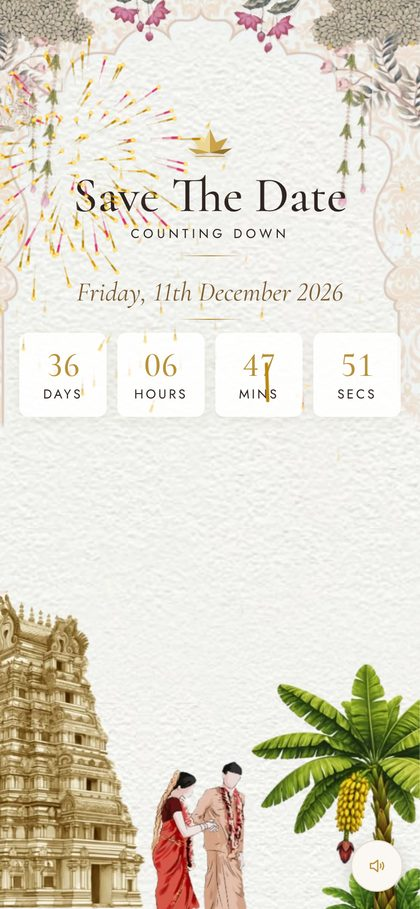
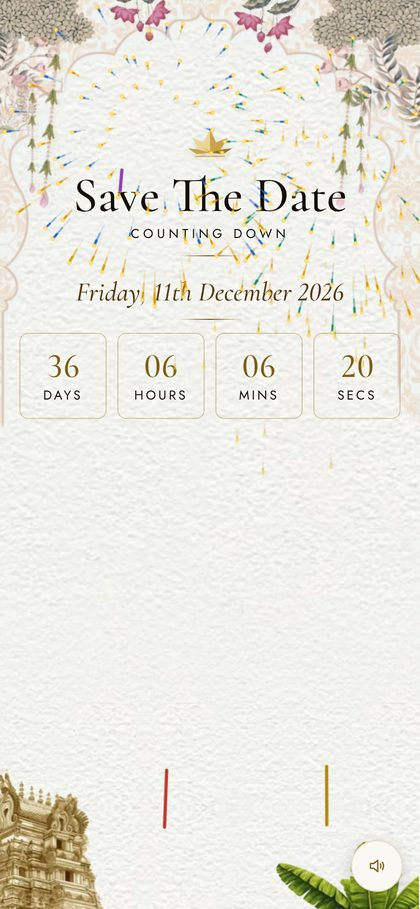
Add files via upload

diff --git a/index.html b/index.html
@@ -11,9 +11,11 @@
 <meta property="og:title" content="Dr. Yuvarajendra &amp; Dr. Madhura · Wedding Invitation">
 <meta property="og:description" content="Muhurtham · Friday, 11 December 2026 · Ebisu Palace, Bengaluru. Tap to open your invitation.">
 <meta property="og:url" content="https://yuvarajendra-reddy.github.io/wedding-invite/">
-<meta property="og:image" content="https://yuvarajendra-reddy.github.io/wedding-invite/bg/og-image.jpg">
+<meta property="og:image" content="https://yuvarajendra-reddy.github.io/wedding-invite/bg/og-preview-v2.jpg">
 <meta property="og:image:width" content="1200">
 <meta property="og:image:height" content="630">
+<meta property="og:image:type" content="image/jpeg">
+<meta property="og:image:secure_url" content="https://yuvarajendra-reddy.github.io/wedding-invite/bg/og-preview-v2.jpg">
 <meta property="og:image:alt" content="Illustrated portrait of Dr. Yuvarajendra and Dr. Madhura">
 <meta name="twitter:card" content="summary_large_image">
 <link rel="icon" href="bg/couple-logo.webp">
@@ -27,11 +29,11 @@
   --outer:#2a2622;
   --cream:#f4f2ec;
   --paper:#fdfcf9;
-  --ink:#2f2420;
-  --text:#3e332d;
-  --gold:#b8923a;
+  --ink:#140d09;
+  --text:#140d09;
+  --gold:#7f5d18;
   --gold-2:#d9bd76;
-  --brown:#7a5a32;
+  --brown:#553914;
   --door:#f6f0e8;
   --display:"Cormorant Garamond","Garamond","Times New Roman",serif;
   --serif:"Cormorant Garamond","Garamond","Times New Roman",serif;
@@ -63,10 +65,17 @@ p{margin:0}
 /* each section = one phone screen */
 .page{position:relative;height:100%;min-height:0;overflow:hidden;display:flex;flex-direction:column;justify-content:center;scroll-snap-align:start;scroll-snap-stop:always;
   /* keep content inside the arch and above the temple/banana band */
-  padding-block:max(56px,calc(var(--w) * .20)) max(72px,calc(var(--w) * .42))}
+  padding-block:max(44px,calc(var(--w) * .15)) max(72px,calc(var(--w) * .42))}
 #p-couple{padding-block:max(44px,calc(var(--w) * .12)) max(56px,calc(var(--w) * .22))}
 #p-couple .invite{margin-bottom:16px}
-#p-couple .person{padding:22px 18px 16px}
+#p-couple .person{padding:22px 4px 10px}
+#p-couple .invite .lead{font-size:24px;line-height:1.35}
+#p-couple .pill{font-size:13px;padding:6px 16px}
+#p-couple .person .nm{font-size:clamp(30px,9.4vw,40px);line-height:1.15;display:flex;flex-wrap:wrap;justify-content:center;align-items:baseline;column-gap:.35em}
+#p-couple .deg-in{font-family:var(--label);font-size:clamp(12px,3.6vw,15px);letter-spacing:.08em;font-weight:500;color:var(--gold);white-space:nowrap}
+#p-couple .person .lin{font-family:var(--serif);text-transform:none;letter-spacing:0;font-size:clamp(15px,4.6vw,19px);font-weight:600;white-space:nowrap;margin-top:6px;color:var(--ink)}
+#p-couple .person .q{font-size:clamp(18px,5.4vw,22px);margin-top:8px}
+#p-couple .and{margin:20px 0 12px}
 
 
 /* ---------- opening doors ---------- */
@@ -166,7 +175,7 @@ p{margin:0}
 .invite .tag{font-style:italic;font-size:14px}
 .couple{display:flex;flex-direction:column;align-items:center}
 .pill{display:inline-block;background:var(--brown);color:#fff;border-radius:999px;padding:4px 12px;position:relative;z-index:2;margin-bottom:-12px;font-size:var(--fs-label);font-family:var(--label);letter-spacing:.24em;padding:5px 14px}
-.person{width:100%;background:rgba(253,252,249,.65);border-radius:14px;padding:26px 20px 20px;text-align:center;box-shadow:0 8px 28px rgba(120,90,50,.10);display:flex;flex-direction:column;gap:5px}
+.person{width:100%;background:transparent;border-radius:14px;padding:26px 20px 20px;text-align:center;box-shadow:0 8px 28px rgba(120,90,50,.10);display:flex;flex-direction:column;gap:5px}
 .person h3{font-size:var(--fs-h3)}
 .person .deg{font-family:var(--label);font-size:var(--fs-small);letter-spacing:.14em;font-weight:500;color:var(--gold)}
 .person .lin{font-family:var(--label);font-size:var(--fs-label);letter-spacing:.16em;font-weight:500;color:var(--brown);line-height:1.8;margin-top:4px;text-transform:uppercase}
@@ -191,7 +200,7 @@ p{margin:0}
 .revealed{margin-top:24px;width:100%;display:flex;flex-direction:column;align-items:center;gap:16px}
 .revealed .date{font-family:var(--display);font-style:italic;font-weight:500;font-size:25px;color:var(--brown);text-align:center}
 .clock{display:grid;grid-template-columns:repeat(4,1fr);gap:10px;width:100%}
-.clock div{background:rgba(255,255,255,.65);border-radius:8px;padding:12px 4px;box-shadow:0 4px 14px rgba(120,90,50,.08);display:flex;flex-direction:column;align-items:center}
+.clock div{background:transparent;border:1px solid rgba(154,116,39,.35);border-radius:8px;padding:12px 4px;box-shadow:0 4px 14px rgba(120,90,50,.08);display:flex;flex-direction:column;align-items:center}
 .clock b{font-family:var(--display);font-weight:500;font-size:32px;color:var(--gold);font-variant-numeric:lining-nums tabular-nums;line-height:1.1}
 .clock span{font-family:var(--label);font-size:var(--fs-label);letter-spacing:.18em;font-weight:400;color:var(--ink)}
 
@@ -199,8 +208,42 @@ p{margin:0}
 .sec-head{text-align:center;margin-bottom:22px}
 .sec-head h2{font-family:var(--display);font-weight:500;font-size:var(--fs-h2);line-height:1.1}
 .sec-head .label{margin-top:8px}
-.card,.person{text-shadow:0 0 8px rgba(253,252,249,.95),0 0 2px rgba(253,252,249,.9)}
-.card{position:relative;background:rgba(253,252,249,.65);border-radius:6px;padding:24px 20px 22px;text-align:center;box-shadow:0 8px 28px rgba(120,90,50,.08);display:flex;flex-direction:column;align-items:center;gap:5px}
+.page:not(.hero) .q,.page:not(.hero) .lead,.foot,.card .time,.addr{font-weight:500}
+.page:not(.hero) .vaddr,.page:not(.hero) .lin,.page:not(.hero) .sub,.page:not(.hero) .day{font-weight:500;color:var(--ink)}
+.page:not(.hero){text-shadow:0 0 10px rgba(250,248,242,1),0 0 4px rgba(250,248,242,1),0 0 1px rgba(250,248,242,1)}
+.card,.person,.clock div{box-shadow:none!important}
+.card::before,.card::after,.card .c3,.card .c4{display:none}
+.page:not(.hero) .card{padding:4px 6px}
+/* event screens: larger type now that the quotes are gone */
+#p-reception .card h3,#p-muhurtham .card h3,#p-oota .card h3{font-size:44px}
+#p-reception .card .sub,#p-muhurtham .card .sub,#p-oota .card .sub{font-size:13px}
+#p-reception .card .join,#p-muhurtham .card .join,#p-oota .card .join{font-size:13px}
+#p-reception .card .day,#p-muhurtham .card .day,#p-oota .card .day{font-size:24px;margin-top:4px}
+#p-reception .card .time,#p-muhurtham .card .time,#p-oota .card .time{font-size:22px}
+#p-reception .card .vlabel,#p-muhurtham .card .vlabel,#p-oota .card .vlabel{font-size:13px;margin-top:18px}
+#p-reception .card .vname,#p-muhurtham .card .vname,#p-oota .card .vname{font-size:24px;line-height:1.25}
+#p-reception .card .vaddr,#p-muhurtham .card .vaddr,#p-oota .card .vaddr{font-size:16.5px}
+#p-reception .card .sym,#p-muhurtham .card .sym,#p-oota .card .sym{width:62px}
+#p-reception .card .btn,#p-muhurtham .card .btn,#p-oota .card .btn{font-size:13px;padding:11px 28px;margin-top:16px}
+#p-reception .card .cal,#p-muhurtham .card .cal,#p-oota .card .cal{font-size:12.5px;margin-top:14px}
+#p-reception .card .mini,#p-muhurtham .card .mini,#p-oota .card .mini{margin:12px 0}
+.vsub{font-size:.72em;letter-spacing:.02em}
+.card .vaddr{text-wrap:balance}
+#p-reception .sec-head{margin-bottom:4px}
+.page:not(.hero) .person{padding:16px 10px 6px}
+.page:not(.hero) .sec-head{margin-bottom:10px}
+#p-venue .card{padding-top:0}
+#p-std .clock div{background:transparent}
+.veil{position:absolute;inset:0;background:radial-gradient(ellipse 90% 80% at 50% 50%,rgba(250,248,242,.92),rgba(250,248,242,.78) 70%,rgba(250,248,242,.6));opacity:0;transition:opacity .7s ease}
+.scene.deep .veil{opacity:0}
+.ground{transition:transform 1.1s cubic-bezier(.4,.1,.2,1)}
+.scene.deep .ground{transform:translateY(56%)}
+.cp{transition:opacity .6s ease}
+.scene.deep .cp{opacity:0}
+.page:not(.hero):not(#p-thanks){padding-bottom:max(84px,calc(var(--w) * .756 * .44 + 6px))}
+.veil{z-index:2}
+.ground{z-index:1}
+.card{position:relative;background:transparent;border-radius:6px;padding:24px 20px 22px;text-align:center;box-shadow:0 8px 28px rgba(120,90,50,.08);display:flex;flex-direction:column;align-items:center;gap:5px}
 .card::before,.card::after,.card .c3,.card .c4{content:"";position:absolute;width:12px;height:12px;border-color:#a99a86;border-style:solid}
 .card::before{top:8px;left:8px;border-width:1px 0 0 1px}
 .card::after{top:8px;right:8px;border-width:1px 1px 0 0}
@@ -246,7 +289,7 @@ p{margin:0}
 .venue-card .vaddr{margin-top:6px}
 .map-wide{width:100%;aspect-ratio:768/400;min-height:0}
 .map-wide img{object-position:50% 50%}
-.addr{text-align:center;font-style:italic;font-size:16px;margin-top:10px;padding:6px 12px;border-radius:8px;background:rgba(253,252,249,.65);-webkit-backdrop-filter:blur(6px);backdrop-filter:blur(6px)}
+.addr{text-align:center;font-style:italic;font-size:16px;margin-top:10px;padding:6px 12px;border-radius:8px;background:transparent;-webkit-backdrop-filter:blur(6px);backdrop-filter:blur(6px)}
 .vpair{display:grid;grid-template-columns:1fr 1fr;gap:12px;margin-top:14px}
 .vcard{padding:18px 10px;gap:4px}
 .vcard .label{font-size:11.5px;letter-spacing:.18em;color:var(--gold)}
@@ -277,11 +320,7 @@ p{margin:0}
 #confetti{position:fixed;inset:0;pointer-events:none;z-index:45}
 #shower{position:fixed;inset:0;width:100%;height:100%;pointer-events:none;z-index:44}
 
-@media (prefers-reduced-motion:reduce){
-  html{scroll-behavior:auto}
-  .run .arch,.run .layer,.run .layer img,.scroll svg,.reveal .spark,.foil{animation:none!important}
-  .door{transition:opacity .6s}.gate.opening .door.l,.gate.opening .door.r{transform:none}
-}
+@media (prefers-reduced-motion:reduce){html{scroll-behavior:auto}}
 </style>
 </head>
 <body>
@@ -339,6 +378,7 @@ p{margin:0}
         <div class="layer sR"><img src="bg/strandR.webp" alt=""></div>
         <div class="layer fC"><img src="bg/flowerC.webp" alt=""></div>
       </div>
+      <div class="veil" aria-hidden="true"></div>
       <div class="ground">
         <div class="layer tp"><img src="bg/temple.webp" alt=""></div>
         <div class="layer bn"><img src="bg/banana.webp" alt=""></div>
@@ -362,23 +402,21 @@ p{margin:0}
   <!-- 2. INVITE + COUPLE -->
   <section class="page wrap" id="p-couple">
     <div class="invite">
-      <p class="lead">Together with our families,<br>we request the pleasure of your company<br>at our wedding</p>
+      <p class="lead">With our families, we invite you<br>to our wedding</p>
       <div class="rule"></div>
     </div>
     <div class="couple">
       <span class="pill label">The Groom</span>
       <div class="person">
-        <h3>Dr. Yuvarajendra</h3>
-        <p class="deg">BE, MS, Ph.D.</p>
-        <p class="lin">SON OF SMT. KALPANA B.K.<br>&amp; SRI C.R. ANJANEYA REDDY</p>
+        <h3 class="nm">Dr. Yuvarajendra <span class="deg-in">BE, MS, Ph.D.</span></h3>
+        <p class="lin">Son of Smt. Kalpana B.K. &amp; Sri C.R. Anjaneya Reddy</p>
         <p class="q">"A normal human with unnecessary degrees"</p>
       </div>
       <div class="and" aria-hidden="true">&amp;</div>
       <span class="pill label">The Bride</span>
       <div class="person">
-        <h3>Dr. Madhura</h3>
-        <p class="deg">BDS, MBA</p>
-        <p class="lin">DAUGHTER OF SMT. VEDA B.S.<br>&amp; SRI N.C. SUDHIR</p>
+        <h3 class="nm">Dr. Madhura <span class="deg-in">BDS, MBA</span></h3>
+        <p class="lin">Daughter of Smt. Veda B.S. &amp; Sri N.C. Sudhir</p>
         <p class="q foil foil-q">"A blissful human being who is certified to fix your teeth"</p>
       </div>
     </div>
@@ -430,10 +468,8 @@ p{margin:0}
       <div class="mini"></div>
       <p class="day">Thursday, 10th December 2026</p>
       <p class="time">From 7:00 <span class="ampm">pm</span> onwards</p>
-      <div class="mini"></div>
-      <p class="q">"We invite you to join us for an evening of celebration and dinner."</p>
       <p class="vlabel label">Venue</p>
-      <p class="vname">Ebisu Palace (EBISU Convention Center)</p>
+      <p class="vname">Ebisu Palace<br><span class="vsub">EBISU Convention Center</span></p>
       <p class="vaddr">Hedge Nagar Main Road, Bengaluru, Karnataka</p>
       <a class="btn" target="_blank" rel="noopener" href="https://www.google.com/maps?q=EBISU+Convention+Center,+Hegde+Nagar+Main+Road+Jakkur+Post,+Chokkanahalli+Plot+No+68/69,+State+Highway+104,+Hegde+Nagar+Rd,+opposite+Regal+Hospital,+Balaji+Layout,+Chokkanahalli,+Bengaluru,+Karnataka+560064&amp;ftid=0x3bae1994d679f199:0x196abe998e27ee49">View map</a>
       <p class="cal"><a target="_blank" rel="noopener" href="https://calendar.google.com/calendar/render?action=TEMPLATE&amp;text=Reception+%C2%B7+Dr.+Yuvarajendra+%26+Dr.+Madhura&amp;dates=20261210T133000Z%2F20261210T170000Z&amp;details=Celebration+and+dinner%2C+from+7%3A00+pm.&amp;location=Ebisu+Palace%2C+EBISU+Convention+Center%2C+Hegde+Nagar+Main+Road%2C+Chokkanahalli%2C+Bengaluru%2C+Karnataka+560064">Add to Google Calendar</a><span class="ics-sep" aria-hidden="true">·</span><a class="ics" href="bg/reception.ics" download>Apple / Outlook</a></p>
@@ -457,10 +493,8 @@ p{margin:0}
       <div class="mini"></div>
       <p class="day">Friday, 11th December 2026</p>
       <p class="time">12:05 – 12:45 <span class="ampm">pm</span></p>
-      <div class="mini"></div>
-      <p class="q">"We cordially invite you and your family to grace the auspicious occasion and shower your blessings on the newlyweds."</p>
       <p class="vlabel label">Venue</p>
-      <p class="vname">Ebisu Palace (EBISU Convention Center)</p>
+      <p class="vname">Ebisu Palace<br><span class="vsub">EBISU Convention Center</span></p>
       <p class="vaddr">Hedge Nagar Main Road, Bengaluru, Karnataka</p>
       <a class="btn" target="_blank" rel="noopener" href="https://www.google.com/maps?q=EBISU+Convention+Center,+Hegde+Nagar+Main+Road+Jakkur+Post,+Chokkanahalli+Plot+No+68/69,+State+Highway+104,+Hegde+Nagar+Rd,+opposite+Regal+Hospital,+Balaji+Layout,+Chokkanahalli,+Bengaluru,+Karnataka+560064&amp;ftid=0x3bae1994d679f199:0x196abe998e27ee49">View map</a>
       <p class="cal"><a target="_blank" rel="noopener" href="https://calendar.google.com/calendar/render?action=TEMPLATE&amp;text=Muhurtham+%C2%B7+Dr.+Yuvarajendra+%26+Dr.+Madhura&amp;dates=20261211T063500Z%2F20261211T071500Z&amp;details=Auspicious+wedding+ceremony%2C+12%3A05+%E2%80%93+12%3A45+pm.&amp;location=Ebisu+Palace%2C+EBISU+Convention+Center%2C+Hegde+Nagar+Main+Road%2C+Chokkanahalli%2C+Bengaluru%2C+Karnataka+560064">Add to Google Calendar</a><span class="ics-sep" aria-hidden="true">·</span><a class="ics" href="bg/muhurtham.ics" download>Apple / Outlook</a></p>
@@ -482,10 +516,8 @@ p{margin:0}
       <div class="mini"></div>
       <p class="day">Wednesday, 16th December 2026</p>
       <p class="time">Lunch from 12:30 <span class="ampm">pm</span></p>
-      <div class="mini"></div>
-      <p class="q">"A joyful celebration of family and togetherness over a traditional celebratory feast."</p>
       <p class="vlabel label">Venue</p>
-      <p class="vname">Ebisu Studio (EBISU Convention Center)</p>
+      <p class="vname">Ebisu Studio<br><span class="vsub">EBISU Convention Center</span></p>
       <p class="vaddr">Hedge Nagar Main Road, Bengaluru, Karnataka</p>
       <a class="btn" target="_blank" rel="noopener" href="https://www.google.com/maps?q=EBISU+Convention+Center,+Hegde+Nagar+Main+Road+Jakkur+Post,+Chokkanahalli+Plot+No+68/69,+State+Highway+104,+Hegde+Nagar+Rd,+opposite+Regal+Hospital,+Balaji+Layout,+Chokkanahalli,+Bengaluru,+Karnataka+560064&amp;ftid=0x3bae1994d679f199:0x196abe998e27ee49">View map</a>
       <p class="cal"><a target="_blank" rel="noopener" href="https://calendar.google.com/calendar/render?action=TEMPLATE&amp;text=Bheegara+Oota+%C2%B7+Dr.+Yuvarajendra+%26+Dr.+Madhura&amp;dates=20261216T070000Z%2F20261216T093000Z&amp;details=Grand+wedding+feast%2C+lunch+from+12%3A30+pm.&amp;location=Ebisu+Studio%2C+EBISU+Convention+Center%2C+Hegde+Nagar+Main+Road%2C+Chokkanahalli%2C+Bengaluru%2C+Karnataka+560064">Add to Google Calendar</a><span class="ics-sep" aria-hidden="true">·</span><a class="ics" href="bg/bheegara-oota.ics" download>Apple / Outlook</a></p>
@@ -604,7 +636,7 @@ p{margin:0}
   // ---- showers: every piece is pre-drawn once into a small sprite, then only stamped each frame
   var sh=document.getElementById('shower'),sx=sh.getContext('2d'),drops=[],shRaf=0,shKind=null,nextRocket=0,boostUntil=0;
   var lowEnd=(navigator.hardwareConcurrency||4)<=4||(navigator.deviceMemory||4)<=3;
-  var dpr=Math.min(devicePixelRatio||1,lowEnd?1.5:2),quality=lowEnd?.65:1;
+  var dpr=Math.min(devicePixelRatio||1,lowEnd?1.5:2),quality=(lowEnd?.75:1)*(reduce?.7:1);
   function shSize(){sh.width=Math.round(innerWidth*dpr);sh.height=Math.round(innerHeight*dpr)}
   shSize();addEventListener('resize',shSize);
   function rnd(a,b){return a+Math.random()*(b-a)}
@@ -753,7 +785,7 @@ p{margin:0}
     if(drops.length||shKind==='fireworks')shRaf=requestAnimationFrame(shFrame);else{shRaf=0;lastT=0;sx.clearRect(0,0,sh.width,sh.height);}
   }
   // shake the phone: pour a heavier shower for a few seconds
-  function boost(){if(!shKind||reduce)return;var now=performance.now();if(now<boostUntil-2500)return;boostUntil=now+3000;
+  function boost(){if(!shKind)return;var now=performance.now();if(now<boostUntil-2500)return;boostUntil=now+3000;
     if(shKind==='feast'){nextDrop=0;return;}
     if(shKind==='fireworks'){for(var i=0;i<4;i++)drops.push(rocket());nextRocket=now+250;return;}
     var added=[];mixes[shKind].forEach(function(k){for(var j=0;j<n(k);j++){var q=makeOne(k,true);q.kind=k;q.y=-rnd(10*dpr,sh.height*.5);q.retire=true;added.push(q);}});
@@ -768,7 +800,7 @@ p{margin:0}
       }else if(window.DeviceMotionEvent){addEventListener('devicemotion',onMotion);}}catch(err){}
   }
   window.__boost=boost;
-  function startShower(kind){if(reduce)return;shKind=kind;drops=makeShower(kind);if(!shRaf){lastT=0;shRaf=requestAnimationFrame(shFrame);}}
+  function startShower(kind){shKind=kind;drops=makeShower(kind);if(!shRaf){lastT=0;shRaf=requestAnimationFrame(shFrame);}}
   var showerPages={'p-couple':'couple','p-std':'fireworks','p-reception':'petals','p-muhurtham':'muhurtham','p-oota':'feast','p-venue':'venue','p-thanks':'namaste'},activePage=null;
   if('IntersectionObserver' in window){
     var shObs=new IntersectionObserver(function(es){es.forEach(function(e){var id=e.target.id;
@@ -778,6 +810,12 @@ p{margin:0}
     Object.keys(showerPages).forEach(function(id){var el=document.getElementById(id);if(el)shObs.observe(el)});
   }
   document.addEventListener('visibilitychange',function(){if(document.hidden){drops=[];}else if(activePage){startShower(showerPages[activePage]);}});
+
+  // ---- lighten the background behind every screen after the first
+  var sceneEl=document.querySelector('.scene');
+  var thanksEl=document.getElementById('p-thanks');
+  function veil(){if(!sceneEl)return;var st=sheet.scrollTop,h=sheet.clientHeight,tt=thanksEl?thanksEl.offsetTop:1e9;sceneEl.classList.toggle('deep',st>h*.45&&st<tt-h*.45)}
+  sheet.addEventListener('scroll',veil,{passive:true});veil();
 
   // ---- countdown to 11 Dec 2026, 12:05 PM IST
   var target=new Date('2026-12-11T12:05:00+05:30').getTime();

diff --git a/README.md b/README.md
@@ -1,6 +1,6 @@
 <div align="center">
 
-<img src="bg/og-image.jpg" alt="Dr. Yuvarajendra & Dr. Madhura" width="720">
+<img src="bg/og-preview-v2.jpg" alt="Dr. Yuvarajendra & Dr. Madhura" width="720">
 
 # Dr. Yuvarajendra & Dr. Madhura
 
